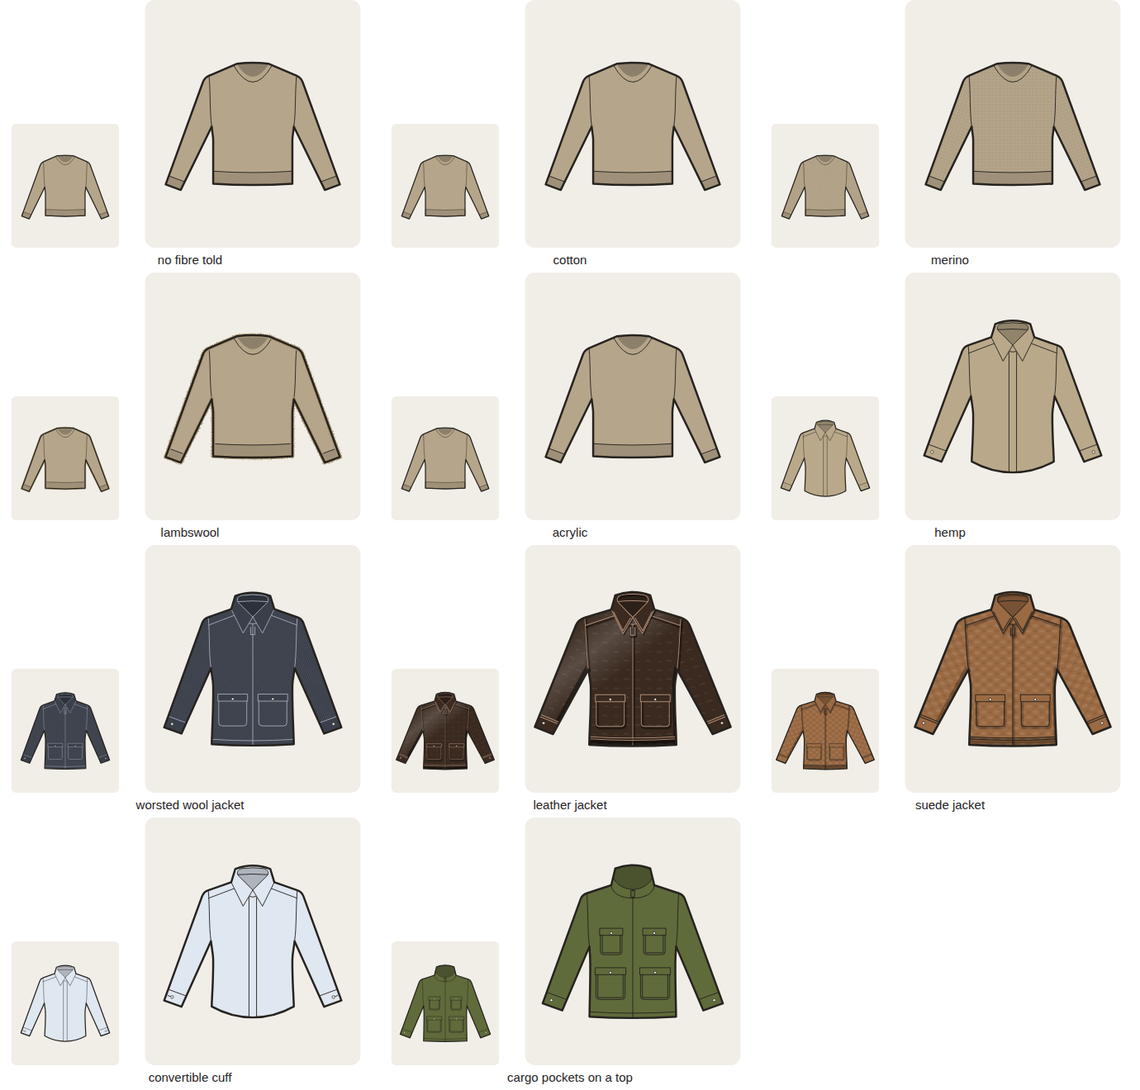
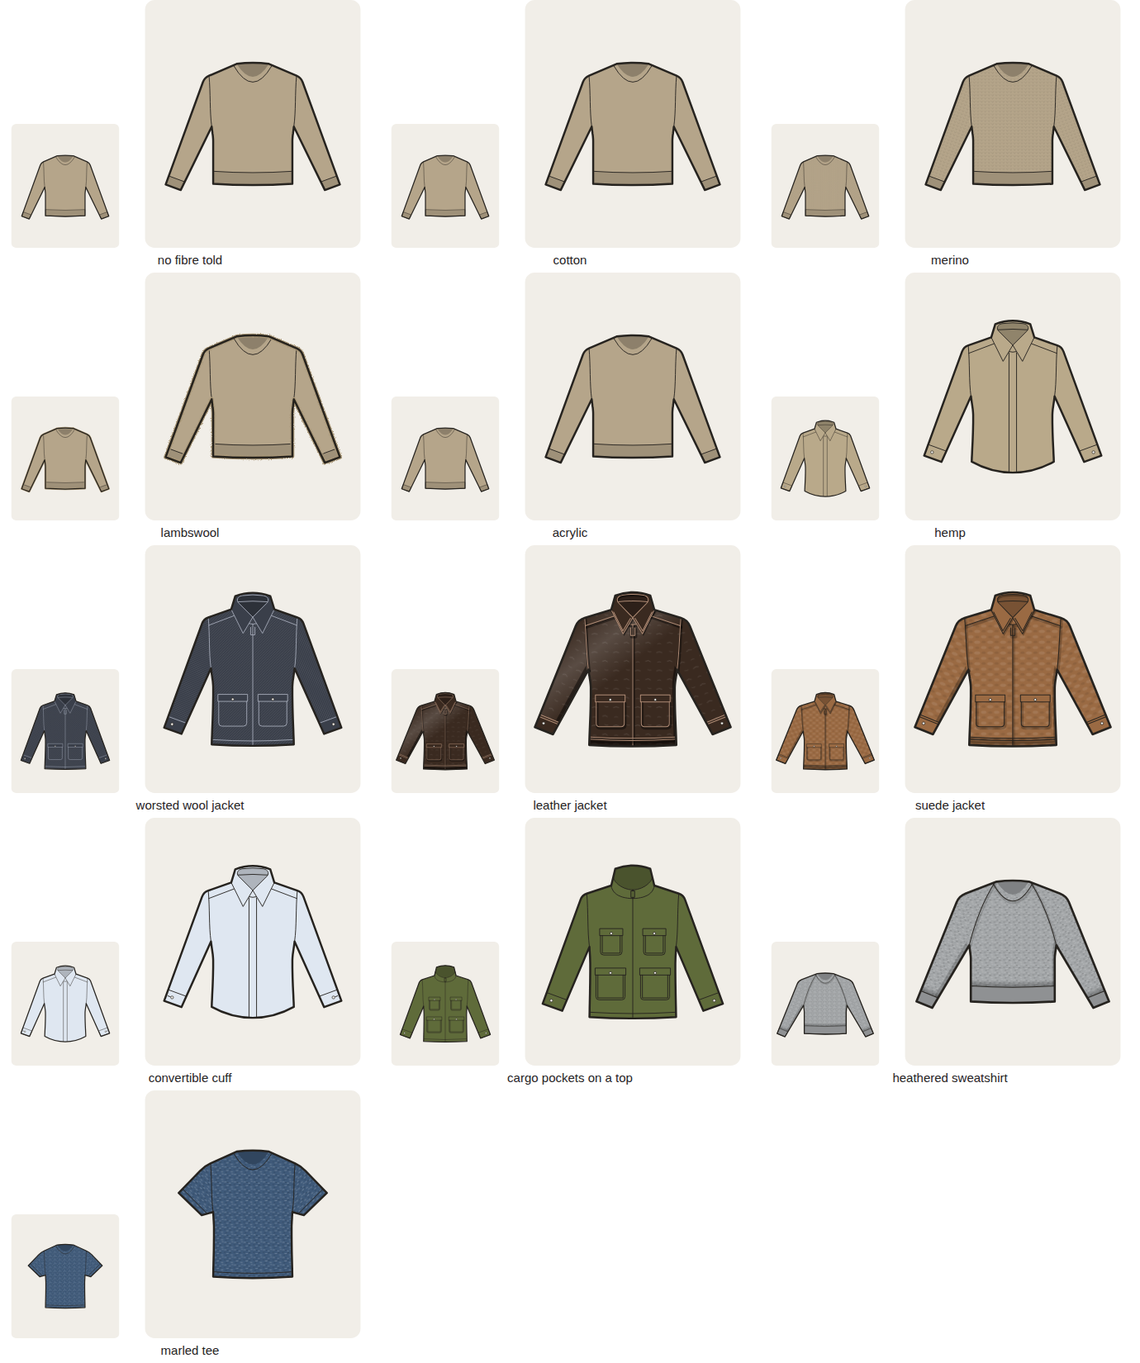
Draw each kind of top with its look, hockey stripes, and a marl surface for heathered tops

diff --git a/backend/closet/tagger/taxonomy.py b/backend/closet/tagger/taxonomy.py
@@ -734,7 +734,23 @@ def top_drawing(g: dict) -> tuple[dict, dict, list[str]]:
                 p["block"] = "coat"
     elif kind == "waxed_jacket":
         extras["collar_color"] = "#5a3d26"   # the brown corduroy collar
+    elif kind in _KIND_TOP:   # the kind's look (#182): some of it always, the rest where the details were silent
+        always, usual = _KIND_TOP[kind]
+        silent = {"front": placket in (None, "none"), "fit": fit in (None, "regular"),
+                  "shoulder": g.get("sleeve_construction") in (None, "na"), "cuffs": g.get("cuff") in (None, "none"),
+                  "hem": g.get("hem") in (None, "na", "straight"), "pockets": g.get("pockets") in (None, "none"),
+                  "neck": collar == "none" and neckline == "crew"}
+        look = {**{k: v for k, v in usual.items() if silent.get("neck" if k in ("collar", "v_depth") else k, True)},
+                **always}
+        if look.get("binding") == "trim":   # edges bound only in a contrast colour that was seen
+            look["binding"] = bool(g.get("contrast_trim"))
+        if look.get("neck") not in (None, "collar"):
+            p.pop("collar", None)
+        if "front" in look:
+            p.pop("buttons", None)
+        p.update(look)
     g = {**g, "fabric": _KIND_FABRIC[kind]} if kind in _KIND_FABRIC and _fabric(g) in (None, "unknown") else g
+    g = {**g, "fiber": _KIND_FIBER[kind]} if kind in _KIND_FIBER and g.get("fiber") in (None, "unknown") else g
     if g.get("side_stripe") and p["sleeve"] != "none":
         p["stripes"] = "sleeve"   # a track jacket's stripes run down the sleeves
     # notes for what is drawn as something close
@@ -760,6 +776,9 @@ def top_drawing(g: dict) -> tuple[dict, dict, list[str]]:
         extras.pop("sheen", None)
     if fiber == "merino" and g.get("knit_gauge") not in KNIT_GAUGES and extras.get("texture") in _GAUGED:
         extras["texture_scale"] = _GAUGE_SCALE["fine"] * (extras.get("texture_scale") or 1.0)
+    if g.get("color_texture") in ("heathered", "marled") and extras.get("texture") in _MARL_OVER:
+        extras["texture"] = "marl"   # the flecked yarn shows over plain knitting
+        extras.pop("texture_scale", None)
     colorwork = COLORWORK.get(_fabric(g) or "") or COLORWORK.get(g.get("pattern_name") or "")
     if colorwork:
         extras["colorwork"] = colorwork
@@ -772,11 +791,49 @@ def top_drawing(g: dict) -> tuple[dict, dict, list[str]]:
     return p, extras, notes
 
 
+# the plain surfaces a heathered or marled yarn is drawn over (none: no fabric was told)
+_MARL_OVER = (None, "jersey", "interlock", "flat_knit", "french_terry", "fleece", "slub_jersey", "plain")
 _TOP_FIBER_TEXTURE = {"leather": "leather", "suede": "suede", "worsted_wool": "twill"}
 _GAUGED = ("cable_knit", "rib_knit", "fisherman_rib", "waffle", "garter", "moss", "flat_knit", "shaker")
 
 # the cloth a kind of top is drawn in when none was seen
-_KIND_FABRIC = {"trench_coat": "gabardine", "varsity_jacket": "melton", "waxed_jacket": "waxed_cotton"}
+_KIND_FABRIC = {"trench_coat": "gabardine", "varsity_jacket": "melton", "waxed_jacket": "waxed_cotton",
+                "running_long_sleeve": "interlock", "running_singlet": "mesh", "compression_top": "interlock",
+                "base_layer": "jersey", "soccer_jersey": "interlock", "basketball_jersey": "mesh", "hockey_jersey": "mesh",
+                "baseball_jersey": "interlock", "cycling_jersey": "interlock", "pajama_set_woven": "poplin",
+                "pajama_set_knit": "jersey", "lounge_knit_set": "flat_knit", "lounge_sweatsuit": "french_terry",
+                "kimono_robe": "plain", "smoking_jacket": "velvet"}
+# the fibre a kind of top is drawn in when none was seen: leather's creases and shine, nylon's sheen
+_KIND_FIBER = {"leather_jacket": "leather", "windbreaker": "nylon", "rain_shell": "nylon", "softshell_jacket": "polyester"}
+# the collar a kind of top has when the tagger saw "a collar" and no more (else a point collar)
+KIND_COLLAR = {"leather_jacket": "stand", "windbreaker": "stand", "softshell_jacket": "stand", "rain_shell": "none",
+               "baseball_jersey": "none", "pajama_set_woven": "camp", "kimono_robe": "none", "smoking_jacket": "shawl"}
+# the sleeve a kind of top has when the tagger did not say (else short on a tee or polo, long otherwise)
+KIND_SLEEVE = {"soccer_jersey": "short", "baseball_jersey": "short", "cycling_jersey": "short", "hockey_jersey": "long",
+               "pajama_set_woven": "long", "pajama_set_knit": "long"}
+# kinds of top drawn with their look (#182): template parameters always set, and those set where the details
+# were silent. binding "trim": the edges bound only when a contrast trim colour was seen
+_KIND_TOP: dict[str, tuple[dict, dict]] = {
+    "leather_jacket": ({}, {"front": "zip"}),
+    "windbreaker": ({}, {"front": "zip", "cuffs": "rib"}),
+    "softshell_jacket": ({}, {"front": "zip", "fit": "slim", "pockets": "welt"}),
+    "rain_shell": ({"neck": "hood"}, {"front": "hidden", "hem": "tennis"}),
+    "running_long_sleeve": ({"sleeve": "long"}, {"fit": "slim", "shoulder": "raglan", "hem": "tennis"}),
+    "running_singlet": ({"sleeve": "none"}, {"fit": "slim"}),
+    "compression_top": ({"fit": "slim"}, {"shoulder": "raglan", "neck": "mock"}),
+    "base_layer": ({"sleeve": "long"}, {"fit": "slim", "shoulder": "raglan", "cuffs": "rib"}),
+    "soccer_jersey": ({}, {"shoulder": "raglan", "binding": "trim"}),
+    "basketball_jersey": ({"sleeve": "none"}, {"neck": "scoop", "binding": "trim"}),
+    "hockey_jersey": ({"stripes": "hoops"}, {"fit": "oversized", "shoulder": "drop", "neck": "v"}),
+    "baseball_jersey": ({}, {"front": "buttons", "binding": "trim"}),
+    "cycling_jersey": ({}, {"fit": "slim", "front": "zip", "neck": "collar", "collar": "stand", "hem": "rib"}),
+    "pajama_set_woven": ({}, {"front": "buttons", "pockets": "chest", "binding": True}),
+    "pajama_set_knit": ({}, {"cuffs": "rib"}),
+    "lounge_knit_set": ({}, {"fit": "relaxed", "cuffs": "rib", "hem": "rib"}),
+    "lounge_sweatsuit": ({}, {"fit": "relaxed", "shoulder": "raglan", "cuffs": "rib", "hem": "rib"}),
+    "kimono_robe": ({"belt": "sash", "length": "knee"}, {"neck": "v", "v_depth": "deep", "shoulder": "dolman"}),
+    "smoking_jacket": ({"belt": "sash"}, {}),
+}
 
 _PULLOVERS = ("fleece_pullover", "athletic_half_zip", "crewneck_sweatshirt", "hoodie", "pullover_sweater", "base_layer",
               "running_long_sleeve", "compression_top")
@@ -1238,6 +1295,19 @@ COVERAGE["families"] = {f: (N_, "used to match colours in outfits, not drawn") f
 COVERAGE["fabric_effects"] = {e: (N_, "the colour as measured is drawn; the cloth's surface comes from the fabric")
                               for e in FABRIC_EFFECTS}
 COVERAGE["fabric_effects"]["denim"] = (A_, "the fades the tagger names are drawn on jeans")
+# #182: the looks a top's cloth carries, drawn when its fabric, fibre or colour texture is told
+COVERAGE["fabric_effects"].update({
+    "linen": (D, "linen's slubby surface, when the fabric or fibre is linen"),
+    "brushed": (D, "a soft edge and no highlights on brushed cloths: flannel, brushed twill, fleece"),
+    "corduroy_velvet": (D, "corduroy's ridges and velvet's sheen, from the fabric"),
+    "suede": (D, "suede's nap, when the fibre is suede"),
+    "worsted_wool": (D, "worsted's fine twill on a top, when the fibre is worsted wool"),
+    "heathered_marled": (D, "pale and dark flecks over plain knitting, when the colour is heathered or marled"),
+    "mercerised_silk_satin": (D, "a sheen on silk, satin and sateen"),
+    "leather": (D, "leather's creases and shine"),
+    "synthetic_performance": (A_, "the measured colour carries its brightness; nylon's sheen when the fibre is nylon"),
+    "sun_fade": (N_, "the colour as measured is drawn; where the sun faded it (shoulders, collar) is not drawn"),
+})
 
 
 def coverage_counts() -> dict[str, tuple[int, int, int]]:
@@ -1290,6 +1360,34 @@ _KIND_NOTES = {
                       "chenille letters are not drawn)",
     "waxed_jacket": "the brown cord collar and a waxed cotton sheen",
     "robe": "a knotted sash round the waist, to the knee; its collar and cloth from its details",
+    # #182: what sets each apart, where the details do not say otherwise
+    "leather_jacket": "leather's creases and shine, a zip front and a stand collar (a rider's lapels when told)",
+    "windbreaker": "light nylon with a sheen, a zip front, a stand collar and gathered cuffs",
+    "softshell_jacket": "a slim matt jacket with a zip front, a stand collar and zipped welt pockets",
+    "rain_shell": "a hood, a storm flap over the zip and a longer back; nylon's sheen (taped seams are not drawn)",
+    "running_long_sleeve": "slim, raglan long sleeves and a longer back, in a fine knit (thumbholes and reflective "
+                           "trims are too small to draw)",
+    "running_singlet": "a slim tank in an open mesh",
+    "compression_top": "the slimmest fit, raglan panel seams and a mock neck, in a smooth knit with no folds",
+    "base_layer": "slim raglan long sleeves and rib cuffs, in a fine jersey",
+    "soccer_jersey": "a raglan jersey in a fine knit; with a trim colour, its neck, cuffs and hem bound in it (the "
+                     "crest and sponsor print are not drawn)",
+    "basketball_jersey": "a tank with deep armholes and a scoop neck in an open mesh; with a trim colour, the neck and "
+                         "hem bound in it (the number is not drawn)",
+    "hockey_jersey": "oversized with long sleeves and a V-neck, stripes round the arms and above the hem in the trim "
+                     "colour or the other colour seen (the lacing at the neck is not drawn)",
+    "baseball_jersey": "a short-sleeved button front with no collar; with a trim colour, piping down the placket and "
+                       "round the neck, cuffs and hem",
+    "cycling_jersey": "slim and short-sleeved, a zip front, a low stand collar and a gripper hem (its back pockets are "
+                      "out of view)",
+    "pajama_set_woven": "the top: a camp collar, a button front, a chest pocket and piped edges (the trousers are their "
+                        "own item)",
+    "pajama_set_knit": "the top: long sleeves and rib cuffs in a soft jersey (the trousers are their own item)",
+    "lounge_knit_set": "the top: a relaxed knit with rib cuffs and hem (the trousers are their own item)",
+    "lounge_sweatsuit": "the top: a relaxed raglan sweatshirt in French terry with rib cuffs and hem (the trousers are "
+                        "their own item)",
+    "kimono_robe": "a deep wrap neck, wide dolman sleeves and a knotted sash, to the knee",
+    "smoking_jacket": "velvet with a shawl collar (in the trim colour, as a satin facing, when one was seen) and a sash",
     **{k: (("a tight leg" if v.get("leg") == "skinny" else "a short inseam and a slit hem" if v.get("hem") == "split"
             else "an elastic or drawstring waist") + (" and a stripe down each side in the trim colour" if v.get("stripe") else "")
            + (", ribbed ankle cuffs" if v.get("hem") == "rib" else ""))

diff --git a/bench/tests/test_taxonomy.py b/bench/tests/test_taxonomy.py
@@ -11,7 +11,7 @@ import pytest
 
 from closet_bench.fills import Stripes
 from closet_bench.illustrate import BUTTON_CONTRAST, INSIDE_CONTRAST, Fill, Spec, _over, contrast, layer, render
-from closet_bench.taxonomy import (ACCESSORIES, COLORWORK, ACCESSORY_GARMENTS, ACCESSORY_GROUP, ACCESSORY_TEMPLATES, AXES, CORDUROY_WALES,
+from closet_bench.taxonomy import (_KIND_TOP, ACCESSORIES, COLORWORK, ACCESSORY_GARMENTS, ACCESSORY_GROUP, ACCESSORY_TEMPLATES, AXES, CORDUROY_WALES,
                                    COVERAGE, GARMENT_DRAWINGS, KNIT_GAUGES, TOP_AXES, WEIGHT_CLASSES, accessory_drawing,
                                    surface_extras, top_drawing)
 from closet_bench.templates import BODY_W, BLOCKS, CX, K_PX, SLEEVE_GAP, SLEEVE_HANG, build
@@ -277,6 +277,47 @@ def test_a_convertible_cuff_shows_its_spare_buttonhole_and_cargo_pockets_are_dra
     p, _, notes = top_drawing({**shirt, "cuff": "convertible", "pockets": "cargo"})
     assert p["cuffs"] == "convertible" and p["pockets"] == "bellows" and not notes
     assert COVERAGE["cuff"]["convertible"][0] == COVERAGE["pockets"]["cargo"][0] == "drawn"
+
+
+# what drawing_for passes for a top when the tagger told only the kind: every axis at its quiet value
+QUIET_TOP = dict(fit="regular", sleeve_length="short", collar="none", neckline="crew", placket="none", cuff="none",
+                 pockets="none", hem="straight", fabric="unknown", length="regular", contrast_trim=False,
+                 second_color=False)
+
+
+@pytest.mark.parametrize("kind", sorted(_KIND_TOP))
+def test_each_kind_of_top_is_drawn_with_its_look(kind):
+    p, extras, _ = top_drawing({**QUIET_TOP, "garment": kind, "contrast_trim": True})
+    plain, plain_extras, _ = top_drawing(QUIET_TOP)
+    assert (p, extras) != (plain, plain_extras)
+    shape = build("top", p)
+    assert shape.anchors.keys() == build("top", plain).anchors.keys()
+    valid(render(Spec("top", p, Fill("solid", "#3f6fb0"), trim_color="#f4f1ea", **extras), "line"))
+    assert COVERAGE["garment"][kind][0] == "drawn"
+
+
+def test_a_kinds_look_gives_way_to_what_was_told():
+    told = {**QUIET_TOP, "garment": "windbreaker", "placket": "snap", "cuff": "open_hem"}
+    p, _, _ = top_drawing(told)
+    assert p["front"] != "zip" and p["cuffs"] != "rib"
+    # binding only with a contrast colour; a hockey jersey's stripes whatever was told
+    assert not top_drawing({**QUIET_TOP, "garment": "soccer_jersey"})[0].get("binding")
+    assert top_drawing({**QUIET_TOP, "garment": "soccer_jersey", "contrast_trim": True})[0]["binding"]
+    hockey = top_drawing({**QUIET_TOP, "garment": "hockey_jersey", "neckline": "crew", "fit": "slim"})[0]
+    assert hockey["stripes"] == "hoops" and hockey["fit"] == "slim"
+    hooped = build("top", hockey)
+    assert sum(part.role == "inlay" for part in hooped.parts) == 2 + 2   # a band round each short sleeve, two above the hem
+    leather = top_drawing({**QUIET_TOP, "garment": "leather_jacket"})[1]
+    assert leather["texture"] == "leather" and leather["sheen"]
+
+
+def test_a_heathered_or_marled_top_is_flecked():
+    tee = {**QUIET_TOP, "fabric": "jersey"}
+    assert top_drawing({**tee, "color_texture": "heathered"})[1]["texture"] == "marl"
+    assert top_drawing({**tee, "color_texture": "marled", "fabric": "unknown"})[1]["texture"] == "marl"
+    assert top_drawing({**tee, "color_texture": "heathered", "fabric": "cable"})[1]["texture"] == "cable_knit"
+    assert top_drawing(tee)[1]["texture"] == "jersey"
+    assert COVERAGE["fabric_effects"]["heathered_marled"][0] == "drawn"
 
 
 def test_the_hidden_button_down_shows_no_buttons():

diff --git a/backend/closet/drawing/templates.py b/backend/closet/drawing/templates.py
@@ -98,7 +98,8 @@ TOP_DEFAULTS = dict(
 #   binding   False | True             a contrast strip wrapped over the edges: the collar's top, the placket, the
 #             sleeve ends and the hem (role "binding" inside the garment, "binding_edge" on its outline)
 #   colorblock  a tuple of parts cut in the second colour: yoke | sleeves | collar | pocket
-#   stripes   none | sleeve            two stripes down the outside of each sleeve (a track jacket), in the trim colour
+#   stripes   none | sleeve | hoops    two stripes down the outside of each sleeve (a track jacket), or stripes round
+#             the arms and the body above the hem (a hockey jersey); in the trim colour
 #   belt      False | True | sash      a self belt buckled round the waist (a trench coat); a robe's knotted sash
 # Finer pocket values: chest-flap | chest-patch-two | pencil | western | welt | split | slash | chore |
 #   chest-flap-two | guayabera | bellows | utility | hip-patch | hip-flap
@@ -853,6 +854,24 @@ def top(**kw) -> Shape:
                      (a1[0] + q[0] * o1, a1[1] + q[1] * o1), (a0[0] + q[0] * o1, a0[1] + q[1] * o1)]
             for m in (lambda v: v, _mirror):
                 sh.parts.append(Part(_poly([m(v) for v in strip]), "inlay", color="trim", clip=True))
+    # ---- stripes round the arms and the body above the hem (a hockey jersey)
+    if p.get("stripes") == "hoops":
+        bands = []
+        if cuff:
+            Co, Ci, d = cuff
+            q_ = _unit((Ci[0] - Co[0], Ci[1] - Co[1]))
+            span = (((24, 31), (37, 44)) if sleeve in ("long", "three-quarter") else ((12, 18),))
+            for a, b in span:
+                bands.append([(Co[0] - d[0] * a - q_[0] * 6, Co[1] - d[1] * a - q_[1] * 6),
+                              (Ci[0] - d[0] * a + q_[0] * 3, Ci[1] - d[1] * a + q_[1] * 3),
+                              (Ci[0] - d[0] * b + q_[0] * 3, Ci[1] - d[1] * b + q_[1] * 3),
+                              (Co[0] - d[0] * b - q_[0] * 6, Co[1] - d[1] * b - q_[1] * 6)])
+        for band in bands:
+            for m in (lambda v: v, _mirror):
+                sh.parts.append(Part(_poly([m(v) for v in band]), "inlay", color="trim", clip=True))
+        for a, b in ((44, 36), (30, 22)):
+            band = [(CX - hh - 4, hy - a), (CX + hh + 4, hy - a), (CX + hh + 4, hy - b), (CX - hh - 4, hy - b)]
+            sh.parts.append(Part(_poly(band), "inlay", color="trim", clip=True))
 
     # ---- cuffs
     if cuff:

diff --git a/backend/closet/tagger/schema.py b/backend/closet/tagger/schema.py
@@ -346,8 +346,8 @@ def drawing_for(tags: ItemTags) -> tuple[str, dict, dict, list[str]]:
     coarse_neck = s.neck or category_neck
     g = {"fit": d.fit_detail if d.fit_detail != "regular" else _COARSE_FIT.get(s.fit, "regular"),
          "sleeve_length": d.sleeve_length if d.sleeve_length != "na" else _COARSE_SLEEVE.get(
-             s.sleeve or ("short" if tags.category in ("tee", "polo") else "long")),
-         "collar": d.collar if d.collar != "none" else ("point" if (coarse_neck == "collar" and d.neckline == "na") else "none"),
+             s.sleeve or taxonomy.KIND_SLEEVE.get(d.garment) or ("short" if tags.category in ("tee", "polo") else "long")),
+         "collar": d.collar if d.collar != "none" else (taxonomy.KIND_COLLAR.get(d.garment, "point") if (coarse_neck == "collar" and d.neckline == "na") else "none"),
          "neckline": d.neckline if d.neckline != "na" else _COARSE_NECK.get(coarse_neck, "crew"),
          "placket": d.placket, "placket_buttons": d.placket_buttons if d.placket != "none" else None,
          "cuff": d.cuff, "sleeve_construction": d.sleeve_construction,
@@ -355,7 +355,8 @@ def drawing_for(tags: ItemTags) -> tuple[str, dict, dict, list[str]]:
          "hem": d.hem if d.hem != "na" else "straight", **cloth,
          "length": s.top_length or ("long" if tags.category == "coat" else "regular"),
          "garment": d.garment, "side_stripe": "side_stripe" in d.features, "contrast_trim": d.trim_color != "same",
-         "second_color": bool(tags.secondary_colors), "pattern_name": d.pattern_name}
+         "second_color": bool(tags.secondary_colors), "pattern_name": d.pattern_name,
+         "color_texture": d.color_texture}
     p, more, notes = top_drawing(g)
     if more.get("colorwork"):   # knitted in the other colours seen
         more["motif_colors"] = tuple(NAMED_HEX[c] for c in tags.secondary_colors if c in NAMED_HEX)
@@ -363,6 +364,8 @@ def drawing_for(tags: ItemTags) -> tuple[str, dict, dict, list[str]]:
         more["block_color"] = NAMED_HEX.get(tags.secondary_colors[0])
     if "v_insert" in d.features:
         p["neck_detail"] = "v-insert"
+    if p.get("stripes") == "hoops" and not extras["trim_color"] and tags.secondary_colors:
+        extras["trim_color"] = NAMED_HEX.get(tags.secondary_colors[0])   # a hockey jersey's stripes: the other colour seen
     return "top", p, {**extras, **more}, notes
 
 

diff --git a/tools/make_coverage_sheet.py b/tools/make_coverage_sheet.py
@@ -108,6 +108,8 @@ CASES: dict[str, list[tuple[str, str, str, dict, dict]]] = {
                                                      hem="curved_shirt_tail"), {}),
         ("cargo pockets on a top", "jacket", "#5f6b3a", dict(collar="stand", placket="zip_full", pockets="cargo",
                                                              cuff="barrel_1", hem="straight"), {}),
+        ("heathered sweatshirt", "sweater", "#a3a6a8", dict(color_texture="heathered", fabric="french_terry", **SWEAT), {}),
+        ("marled tee", "tee", "#3f5a7a", dict(color_texture="marled", fabric="jersey", **TEE), {}),
     ],
     "tops-kinds": [
         ("leather jacket", "jacket", "#2a2523", dict(garment="leather_jacket"), {}),
@@ -118,10 +120,10 @@ CASES: dict[str, list[tuple[str, str, str, dict, dict]]] = {
         ("running singlet", "tee", "#3f6fb0", dict(garment="running_singlet"), {}),
         ("compression top", "tee", "#1f1f22", dict(garment="compression_top"), {}),
         ("base layer", "tee", "#5c6b4a", dict(garment="base_layer"), {}),
-        ("soccer jersey", "tee", "#c8102e", dict(garment="soccer_jersey"), {"_second": "white"}),
-        ("basketball jersey", "tee", "#552583", dict(garment="basketball_jersey"), {"_second": "yellow"}),
+        ("soccer jersey", "tee", "#c8102e", dict(garment="soccer_jersey", trim_color="white"), {"_second": "white"}),
+        ("basketball jersey", "tee", "#552583", dict(garment="basketball_jersey", trim_color="yellow"), {"_second": "yellow"}),
         ("hockey jersey", "tee", "#27344f", dict(garment="hockey_jersey"), {"_second": "white"}),
-        ("baseball jersey", "shirt", "#f6f5f2", dict(garment="baseball_jersey"), {"_second": "navy"}),
+        ("baseball jersey", "shirt", "#f6f5f2", dict(garment="baseball_jersey", trim_color="navy"), {"_second": "navy"}),
         ("cycling jersey", "tee", "#f2c230", dict(garment="cycling_jersey"), {}),
         ("pyjama top, woven", "shirt", "#9fb7d6", dict(garment="pajama_set_woven"), {"_second": "white"}),
         ("pyjama top, knit", "tee", "#8f9296", dict(garment="pajama_set_knit"), {}),

diff --git a/backend/closet/drawing/illustrate.py b/backend/closet/drawing/illustrate.py
@@ -190,7 +190,7 @@ TEXTURES = ("corduroy", "rib_knit", "waffle", "cable_knit", "pique", "mesh", "se
             "satin", "sateen", "flannel", "brushed_twill", "moleskin", "canvas", "gabardine", "cavalry_twill",
             "whipcord", "fresco", "velvet", "melton", "waxed",
             # jerseys and plain knits
-            "jersey", "interlock", "flat_knit", "slub_jersey", "french_terry", "velour", "shaker",
+            "jersey", "interlock", "flat_knit", "slub_jersey", "marl", "french_terry", "velour", "shaker",
             # leather and suede
             "leather", "suede")
 
@@ -401,6 +401,11 @@ def _cloth_tile(name: str, sc: float, lo: str, hi: str):
     if name == "slub_jersey":   # jersey with thicker, uneven slubs here and there
         return (30, 20, f'<path d="{_stitches(30, 20, 5, 4)}" stroke="{lo}" stroke-width=".6" fill="none" opacity=".1"/>'
                         f'<path d="M2,4.5H9M17,14.5H21" stroke="{lo}" stroke-width="1.4" stroke-linecap="round" opacity=".12"/>')
+    if name == "marl":       # heathered or marled yarn: pale and dark flecks scattered over plain knitting
+        return (18, 14, f'<path d="{_stitches(18, 14, 1, 1)}" stroke="{lo}" stroke-width=".6" fill="none" opacity=".08"/>'
+                        f'<path d="M1.5,2.5H4.5M10,4.5H12.5M5.5,9H8.5M13.5,11.5H16.5M15,1.5H17" stroke="#fff" stroke-width="1.1" '
+                        f'stroke-linecap="round" opacity=".32"/><path d="M6.5,3.5H8.5M1,7H3M11,8H13.5M3.5,12.5H5.5" '
+                        f'stroke="{lo}" stroke-width="1.1" stroke-linecap="round" opacity=".24"/>')
     if name == "french_terry":   # the smooth jersey face of a heavier cloth (its loops are on the inside)
         return (7, 6, f'<path d="{_stitches(7, 6, 1, 1)}" stroke="{lo}" stroke-width=".75" fill="none" opacity=".13"/>')
     if name == "velour":     # a plush knitted pile: soft upright brush marks

diff --git a/backend/tests/test_drawing.py b/backend/tests/test_drawing.py
@@ -8,7 +8,7 @@ import pytest
 
 from closet.drawing import item
 from closet.drawing.illustrate import Fill, Spec, render
-from closet.tagger.schema import Details, ItemTags, Silhouette, drawing_for
+from closet.tagger.schema import NAMED_HEX, Details, ItemTags, Silhouette, drawing_for
 
 BACKEND = Path(__file__).resolve().parents[1]
 
@@ -257,3 +257,16 @@ def test_a_fair_isle_sweater_is_drawn_in_its_other_colours_and_its_pattern_is_no
     assert drawing_for(ItemTags.model_validate(told))[2]["colorwork"] == "nordic"
     striped = {**sweater, "pattern": "stripe"}   # a stripe is not what the colourwork draws
     assert any("stripes" in n for n in item.drawing_from_answer(striped, "#d9cbb0").not_drawn)
+
+
+def test_a_kind_of_top_told_alone_is_drawn_with_its_look():
+    # #182: a hockey jersey's stripes in the other colour seen, its long sleeves; a smoking jacket's shawl collar
+    hockey = {**answer("tee", {}, garment="hockey_jersey"), "secondary_colors": ["white"]}
+    template, p, extras, _ = drawing_for(ItemTags.model_validate(hockey))
+    assert p["stripes"] == "hoops" and p["sleeve"] == "long" and extras["trim_color"] == NAMED_HEX["white"]
+    assert NAMED_HEX["white"] in item.drawing_from_answer(hockey, "#27344f").svg
+    smoking = answer("jacket", {}, garment="smoking_jacket")
+    _, p, extras, _ = drawing_for(ItemTags.model_validate(smoking))
+    assert p["collar"] == "shawl" and p["belt"] == "sash" and extras["texture"] == "velvet"
+    told = answer("jacket", {}, garment="smoking_jacket", collar="peak_lapel")
+    assert drawing_for(ItemTags.model_validate(told))[1]["collar"] == "peak"
